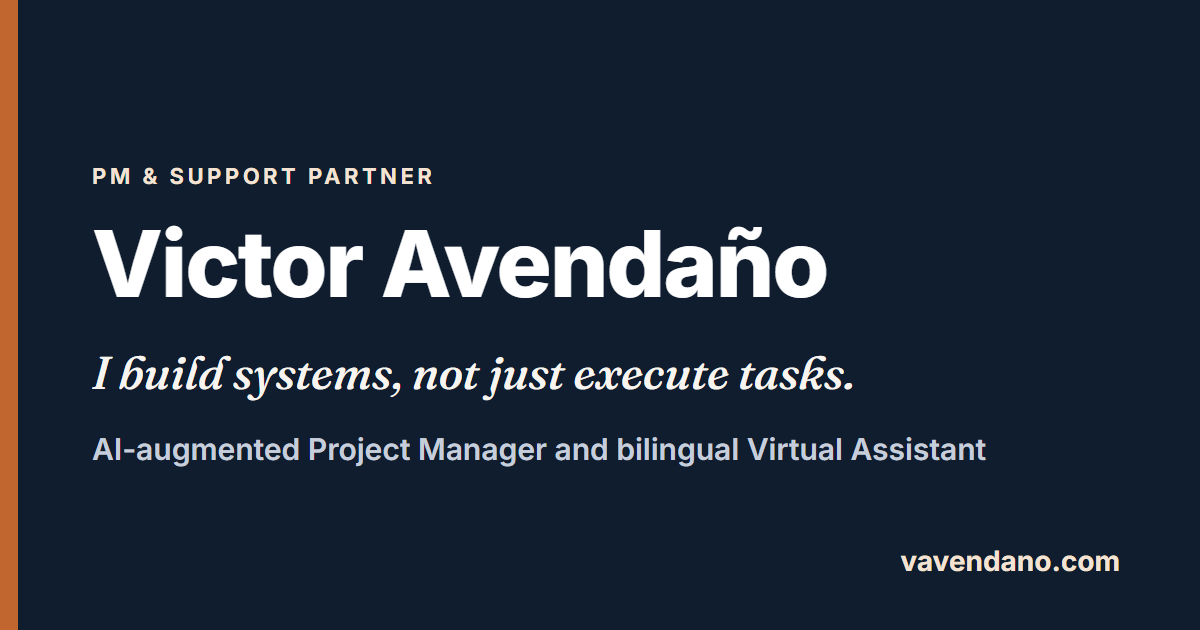
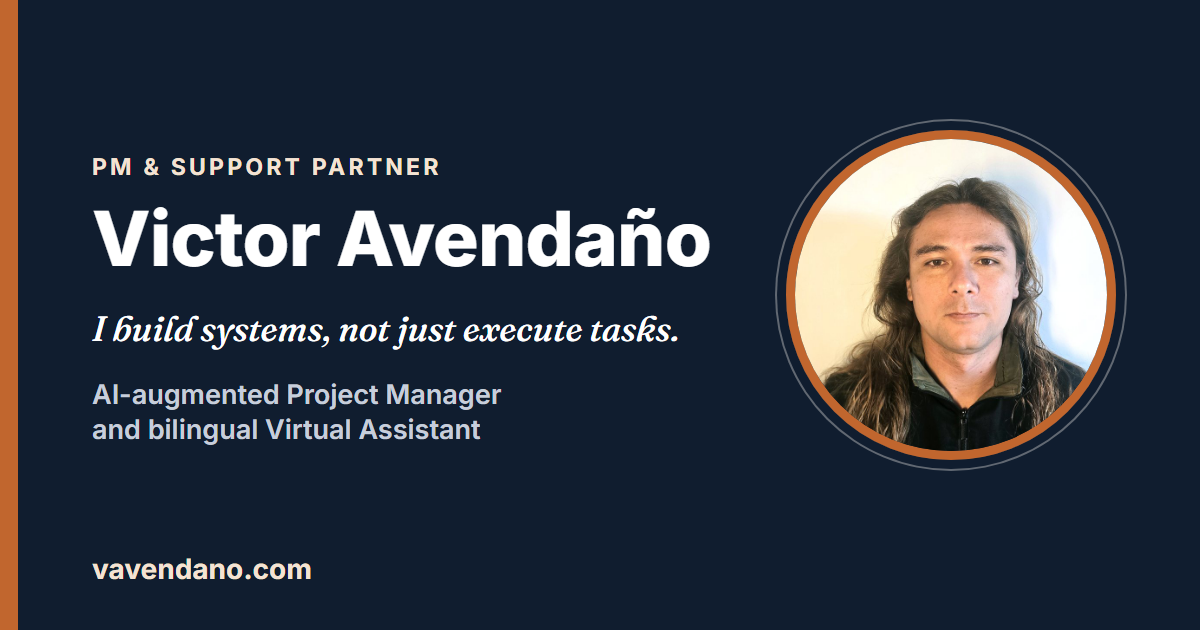
Hero: circular portrait (EN and ES) and photo-based social cards
- Hub hero gets a circular portrait with a terracotta ring (168 px circle
  above the eyebrow on phones and tablets, 340 px at the right on desktop).
- Replace the provisional typographic og-en.png / og-es.png with cards
  that include the portrait; wording unchanged.
- Add hero.photoAlt copy (EN/ES) and a Person image to the hub JSON-LD.
- New public/victor-avendano-360.jpg and -720.jpg (no EXIF).

diff --git a/src/content/site/es.ts b/src/content/site/es.ts
@@ -33,6 +33,7 @@ export const hub: HubContent = {
       'Tengo más de 10 años de experiencia operativa y ejecutiva en fintech, sector público y organizaciones de impacto social. Soy bilingüe (español nativo, inglés C2) y AI-fluent: uso ChatGPT, Claude y Microsoft Copilot a diario para acelerar investigación, redacción y automatización de procesos.',
     ctaPM: 'Ver servicio de Project Manager',
     ctaVA: 'Ver servicio de Asistente Virtual',
+    photoAlt: 'Retrato de Victor Avendaño',
   },
   about: {
     eyebrow: 'Sobre mí',

diff --git a/src/content/site/en.ts b/src/content/site/en.ts
@@ -33,6 +33,7 @@ export const hub: HubContent = {
       "I have 10+ years of operational and executive experience across fintech, public sector, and social-impact organizations. I'm bilingual (native Spanish, C2 English) and AI-fluent: a daily user of ChatGPT, Claude, and Microsoft Copilot to accelerate research, drafting, and process automation.",
     ctaPM: 'See the Project Manager service',
     ctaVA: 'See the Virtual Assistant service',
+    photoAlt: 'Portrait of Victor Avendaño',
   },
   about: {
     eyebrow: 'About me',

diff --git a/src/content/site/types.ts b/src/content/site/types.ts
@@ -49,6 +49,7 @@ export interface HubContent {
     intro: string;
     ctaPM: string;
     ctaVA: string;
+    photoAlt: string;
   };
   about: {
     eyebrow: string;
